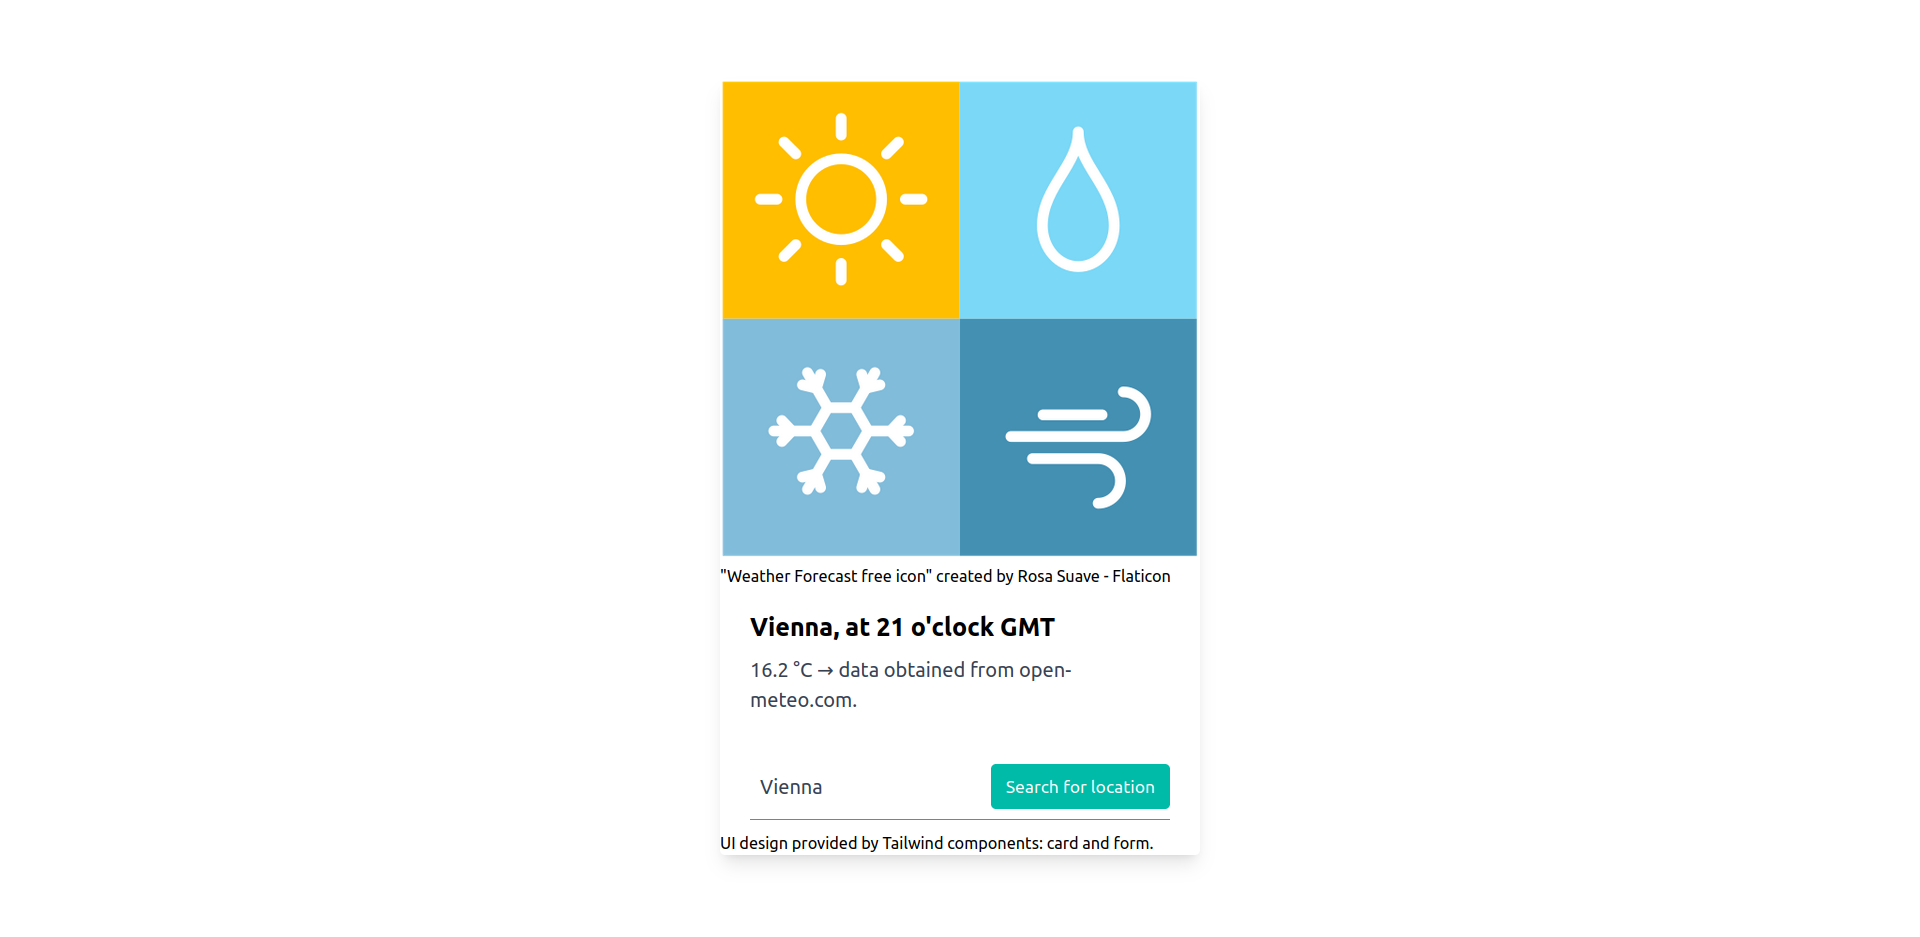
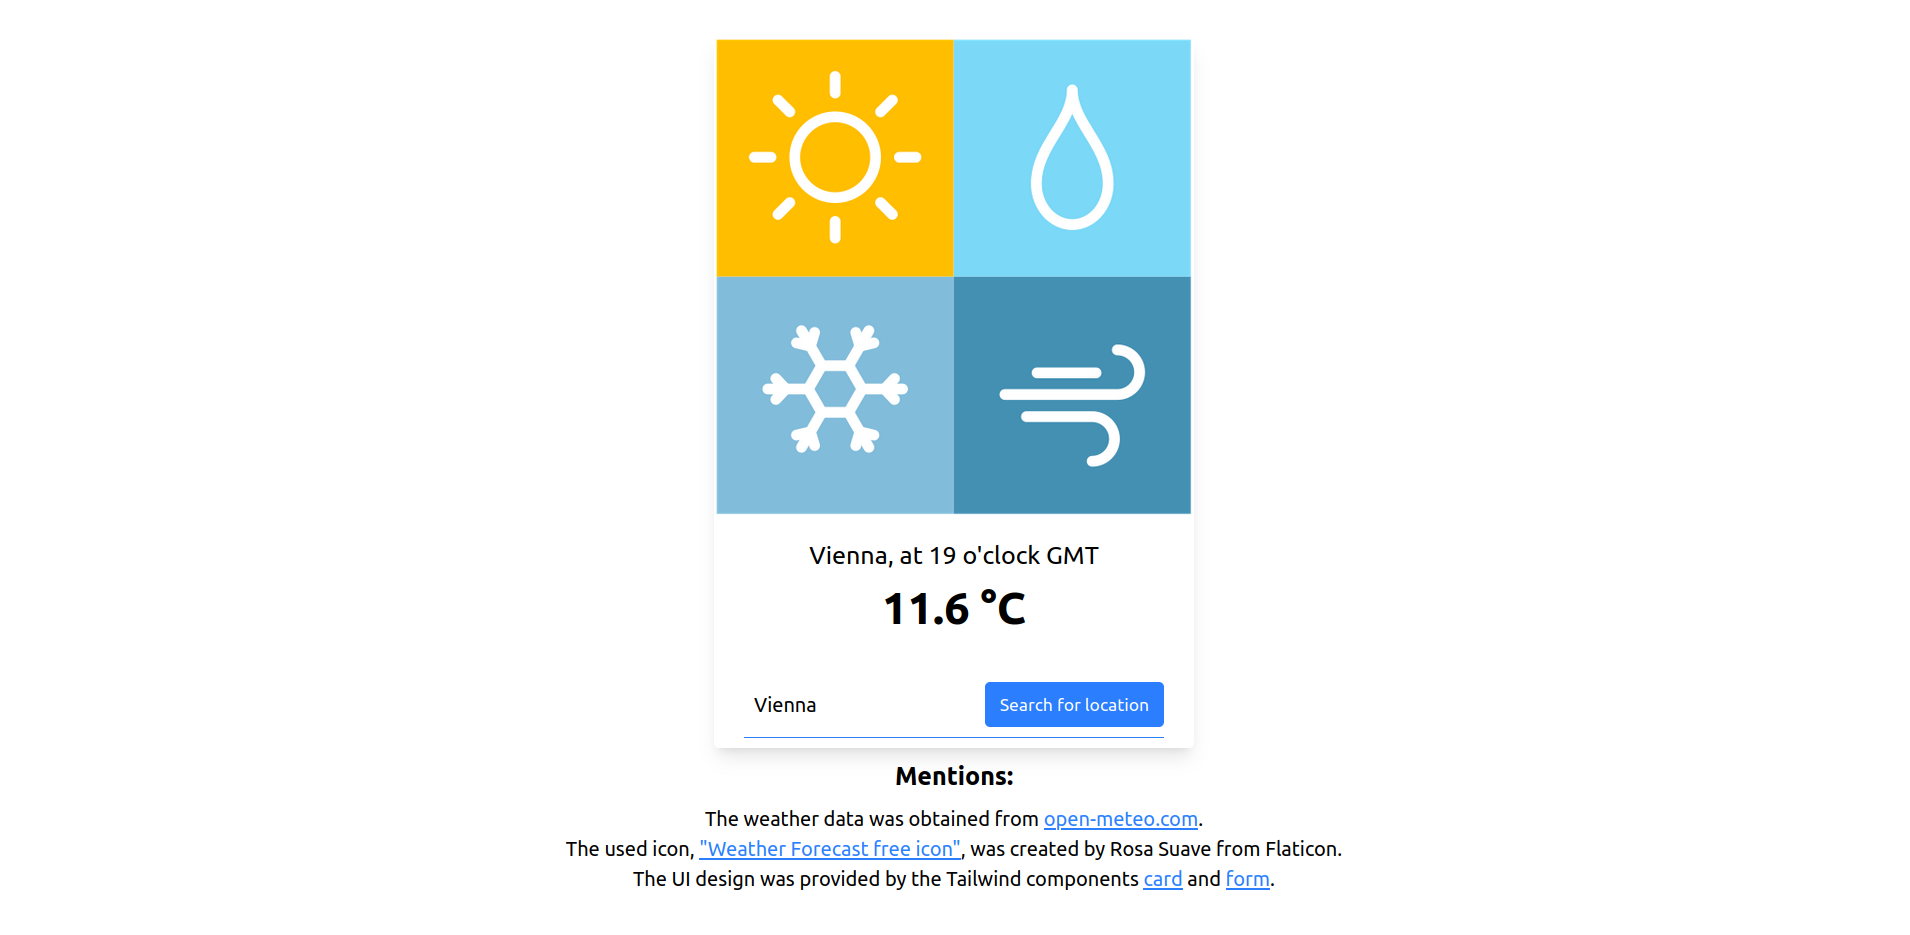
updated UI with new text locations

Changed region(s): [[0.3089, 0.031, 0.7105, 0.9615]]

diff --git a/daily-weather-forecast-frontend/src/app/app.component.html b/daily-weather-forecast-frontend/src/app/app.component.html
@@ -20,20 +20,16 @@
 
 <!-- TAKEN FROM START 3 -->
 <!-- TAKEN FROM START 5 -->
-<div class="flex flex-row min-h-screen justify-center items-center">
+<div class="flex flex-col gap-2 min-h-screen justify-center items-center">
 	<!-- TAKEN FROM END 5 -->
 	<div class="max-w-sm rounded overflow-hidden shadow-lg">
 		<!-- TAKEN FROM START 1 -->
 		<img class="w-full" src="assets/weather-forecast.png">
 		<!-- TAKEN FROM END 1 -->
-		<a class="text-[13px]"
-		   href="https://www.flaticon.com/free-icon/weather-forecast_9176568?term=weather&page=1&position=25&origin=search&related_id=9176568"
-		   title="weather forecast icons">
-			"Weather Forecast free icon" created by Rosa Suave - Flaticon</a>
 		<div class="px-6 py-4">
-			<div class="font-bold text-xl mb-2">{{ cityName }}, at {{ hour }} o'clock GMT</div>
-			<p class="text-gray-700 text-base">
-				{{ temperature }} &deg;C &rarr; data obtained from <a href="https://open-meteo.com/">open-meteo.com</a>.
+			<div class="text-center text-xl mb-2">{{ cityName }}, at {{ hour }} o'clock GMT</div>
+			<p class="font-bold text-black text-center text-4xl">
+				{{ temperature }} &deg;C
 			</p>
 		</div>
 		<div class="px-6 pt-4 pb-2">
@@ -41,11 +37,11 @@
 			<!-- TAKEN FROM START 4 -->
 			<form class="w-full max-w-sm" [formGroup]="formWeather" (ngSubmit)="onSubmit(formWeather)">
 				<!-- TAKEN FROM END 4 -->
-				<div class="flex items-center border-b border-teal-500 py-2">
+				<div class="flex items-center border-b border-blue-500 py-2">
 					<!-- TAKEN FROM START 4 -->
-					<input class="appearance-none bg-transparent border-none w-full text-gray-700 mr-3 py-1 px-2 leading-tight focus:outline-none"
-					       type="text" placeholder="Vienna" aria-label="Full name" formControlName="cityNameInput">
-					<button class="flex-shrink-0 bg-teal-500 hover:bg-teal-700 border-teal-500 hover:border-teal-700 text-sm border-4 text-white py-1 px-2 rounded"
+					<input class="appearance-none bg-transparent border-none w-full text-black mr-3 py-1 px-2 leading-tight focus:outline-none"
+					       type="text" formControlName="cityNameInput">
+					<button class="flex-shrink-0 bg-blue-500 hover:bg-blue-700 border-blue-500 hover:border-blue-700 text-sm border-4 text-white py-1 px-2 rounded"
 					        type="submit">
 						Search for location
 					</button>
@@ -54,9 +50,20 @@
 			</form>
 			<!-- TAKEN FROM END 2 -->
 		</div>
-		<p class="text-[13px]">
-			UI design provided by Tailwind components:  <a href="https://v1.tailwindcss.com/components/cards#stacked ">card</a> and  <a href="https://v1.tailwindcss.com/components/forms#underline-form">form</a>.
-		</p>
 	</div>
+	<p class="font-bold text-xl">Mentions:</p>
+	<ul class="list-none text-center">
+		<li>The weather data was obtained from <a class="underline text-blue-500" href="https://open-meteo.com/">open-meteo.com</a>.
+		</li>
+		<li> The used icon, <a class="underline text-blue-500"
+		                       href="https://www.flaticon.com/free-icon/weather-forecast_9176568?term=weather&page=1&position=25&origin=search&related_id=9176568">
+			"Weather Forecast free icon"</a>,
+			was created by Rosa Suave from Flaticon.
+		</li>
+		<li>The UI design was provided by the Tailwind components <a class="underline text-blue-500"
+		                                                             href="https://v1.tailwindcss.com/components/cards#stacked ">card</a>
+			and <a class="underline text-blue-500" href="https://v1.tailwindcss.com/components/forms#underline-form">form</a>.
+		</li>
+	</ul>
 </div>
 <!-- TAKEN FROM END 3 -->
